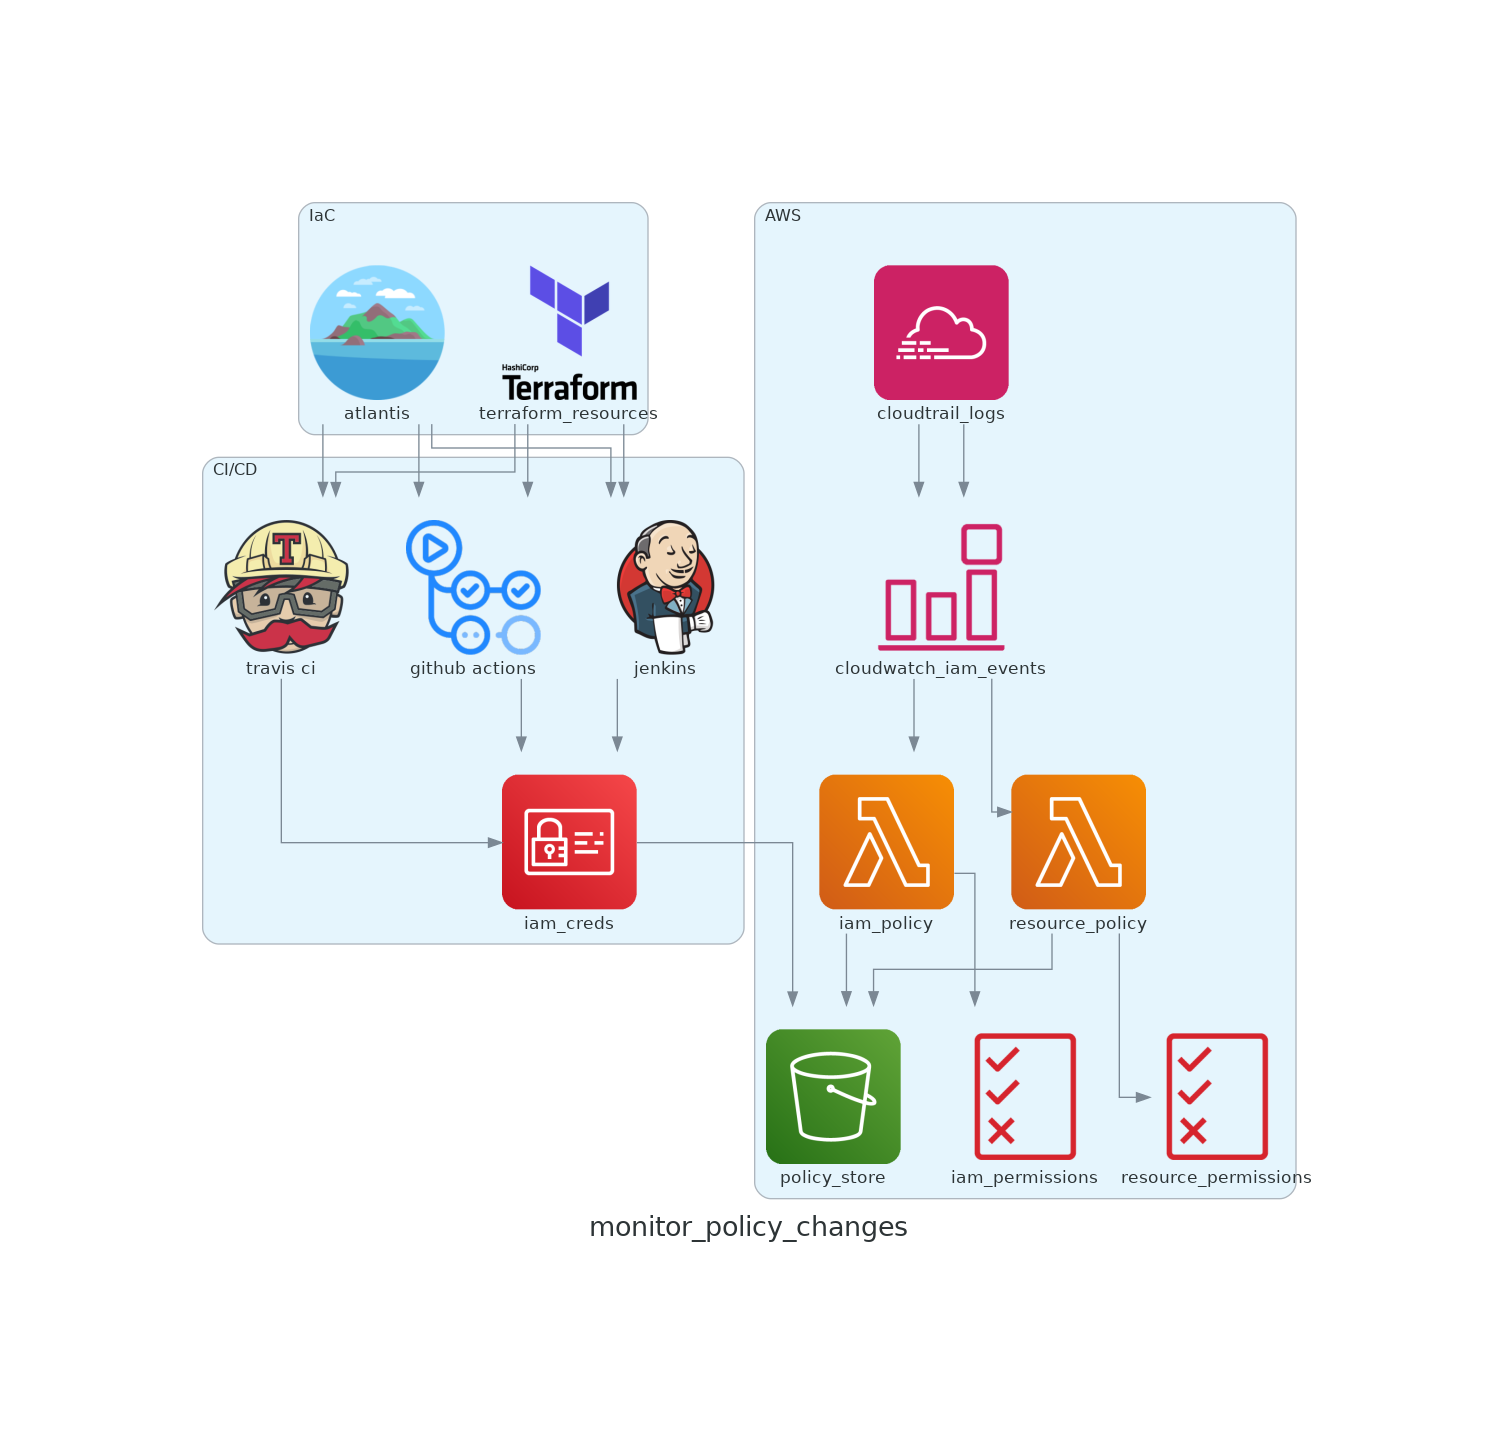
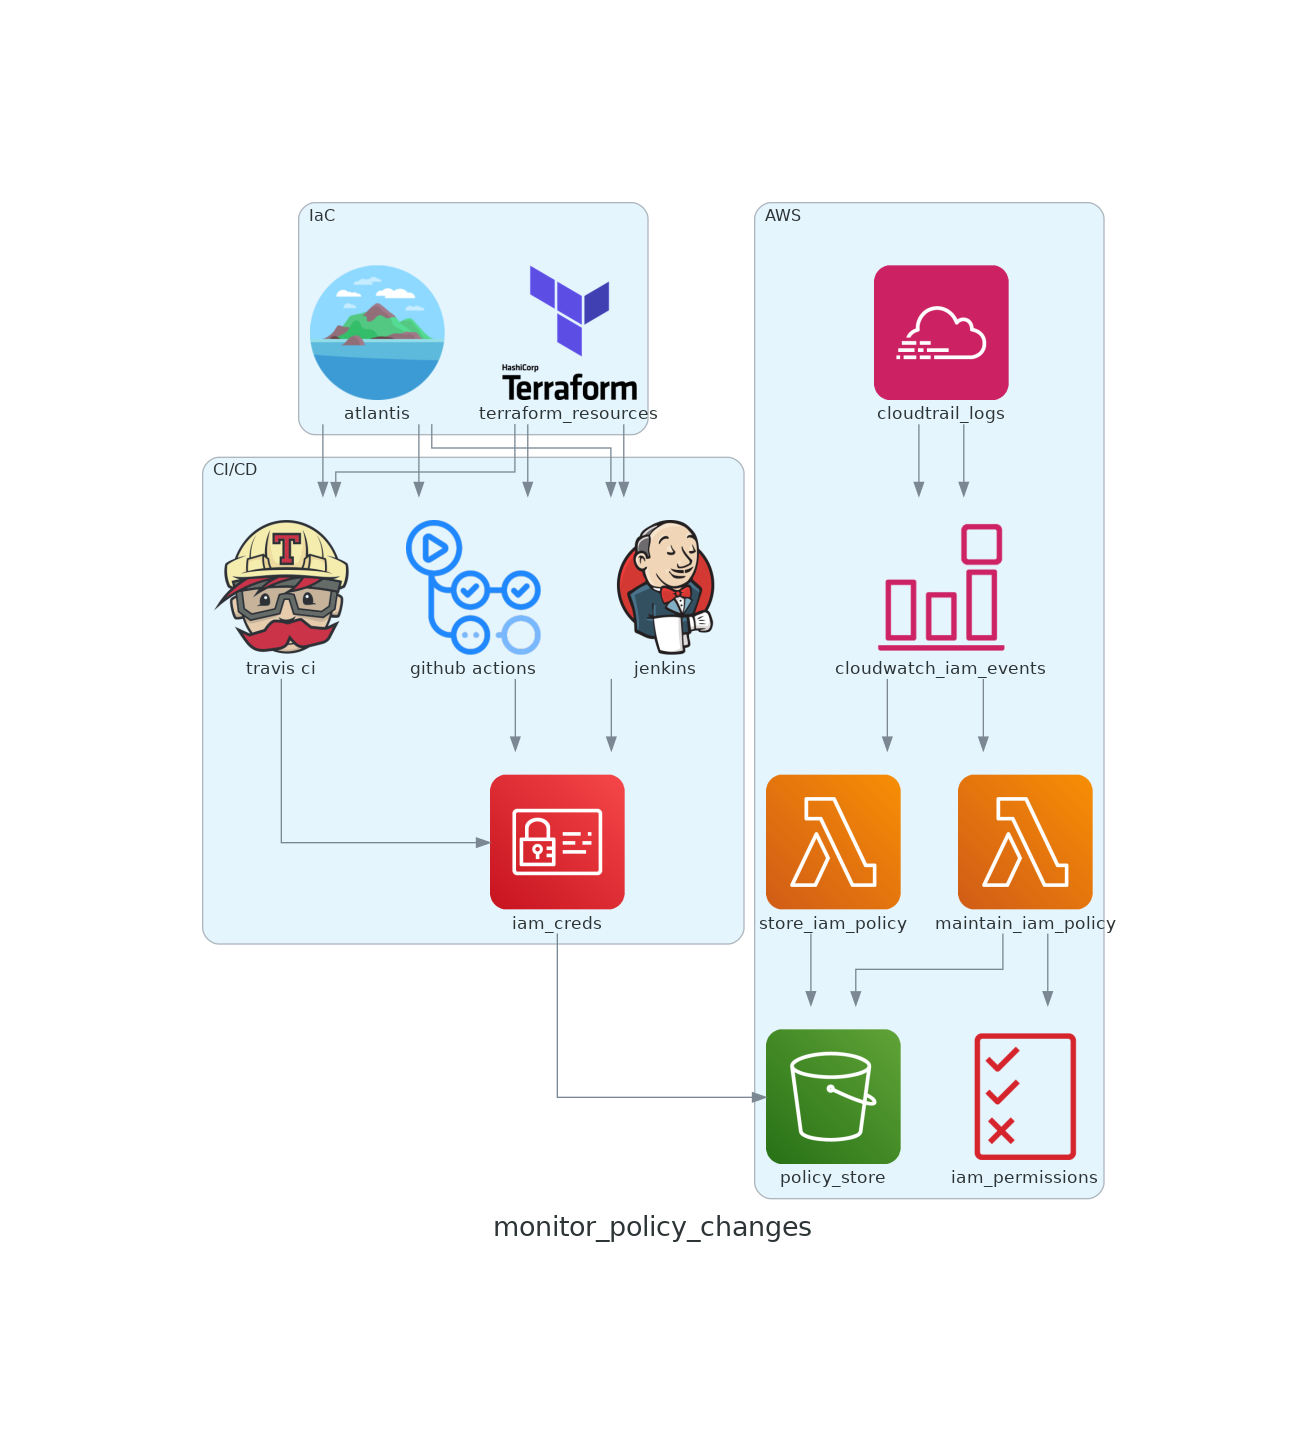
updated code

Changed region(s): [[0.1224, 0.1249, 0.8875, 0.8744]]

diff --git a/diagram/main.py b/diagram/main.py
@@ -9,8 +9,8 @@ from diagrams.onprem.iac import Atlantis, Terraform
 
 graph_attr = {
     "fontsize": "20",
-    # "bgcolor": "transparent"
-    "bgcolor": "white",
+    "bgcolor": "transparent"
+    # "bgcolor": "white",
 }
 
 with Diagram(
@@ -32,12 +32,11 @@ with Diagram(
         cloudtrail_logs = Cloudtrail("cloudtrail_logs")
         cloudwatch_events = CloudwatchEventEventBased("cloudwatch_iam_events")
 
-        iam_policy_lambda = Lambda("iam_policy")
-        resource_policy_lambda = Lambda("resource_policy")
+        store_iam_policy_lambda = Lambda("store_iam_policy")
+        maintain_iam_policy_lambda = Lambda("maintain_iam_policy")
 
         resource_bucket = S3("policy_store")
         iam_permissions = IAMPermissions("iam_permissions")
-        resource_permissions = IAMPermissions("resource_permissions")
 
     # IaC
     terraform_resources >> ci_cd
@@ -48,9 +47,13 @@ with Diagram(
     ci_cd >> iam_creds
 
     # Cloudtrail events
-    cloudtrail_logs >> cloudwatch_events >> iam_policy_lambda >> resource_bucket
-    cloudtrail_logs >> cloudwatch_events >> resource_policy_lambda >> resource_bucket
+    cloudtrail_logs >> cloudwatch_events >> store_iam_policy_lambda >> resource_bucket
+    (
+        cloudtrail_logs
+        >> cloudwatch_events
+        >> maintain_iam_policy_lambda
+        >> resource_bucket
+    )
 
     # Lambda functions
-    iam_policy_lambda >> iam_permissions
-    resource_policy_lambda >> resource_permissions
+    maintain_iam_policy_lambda >> iam_permissions
